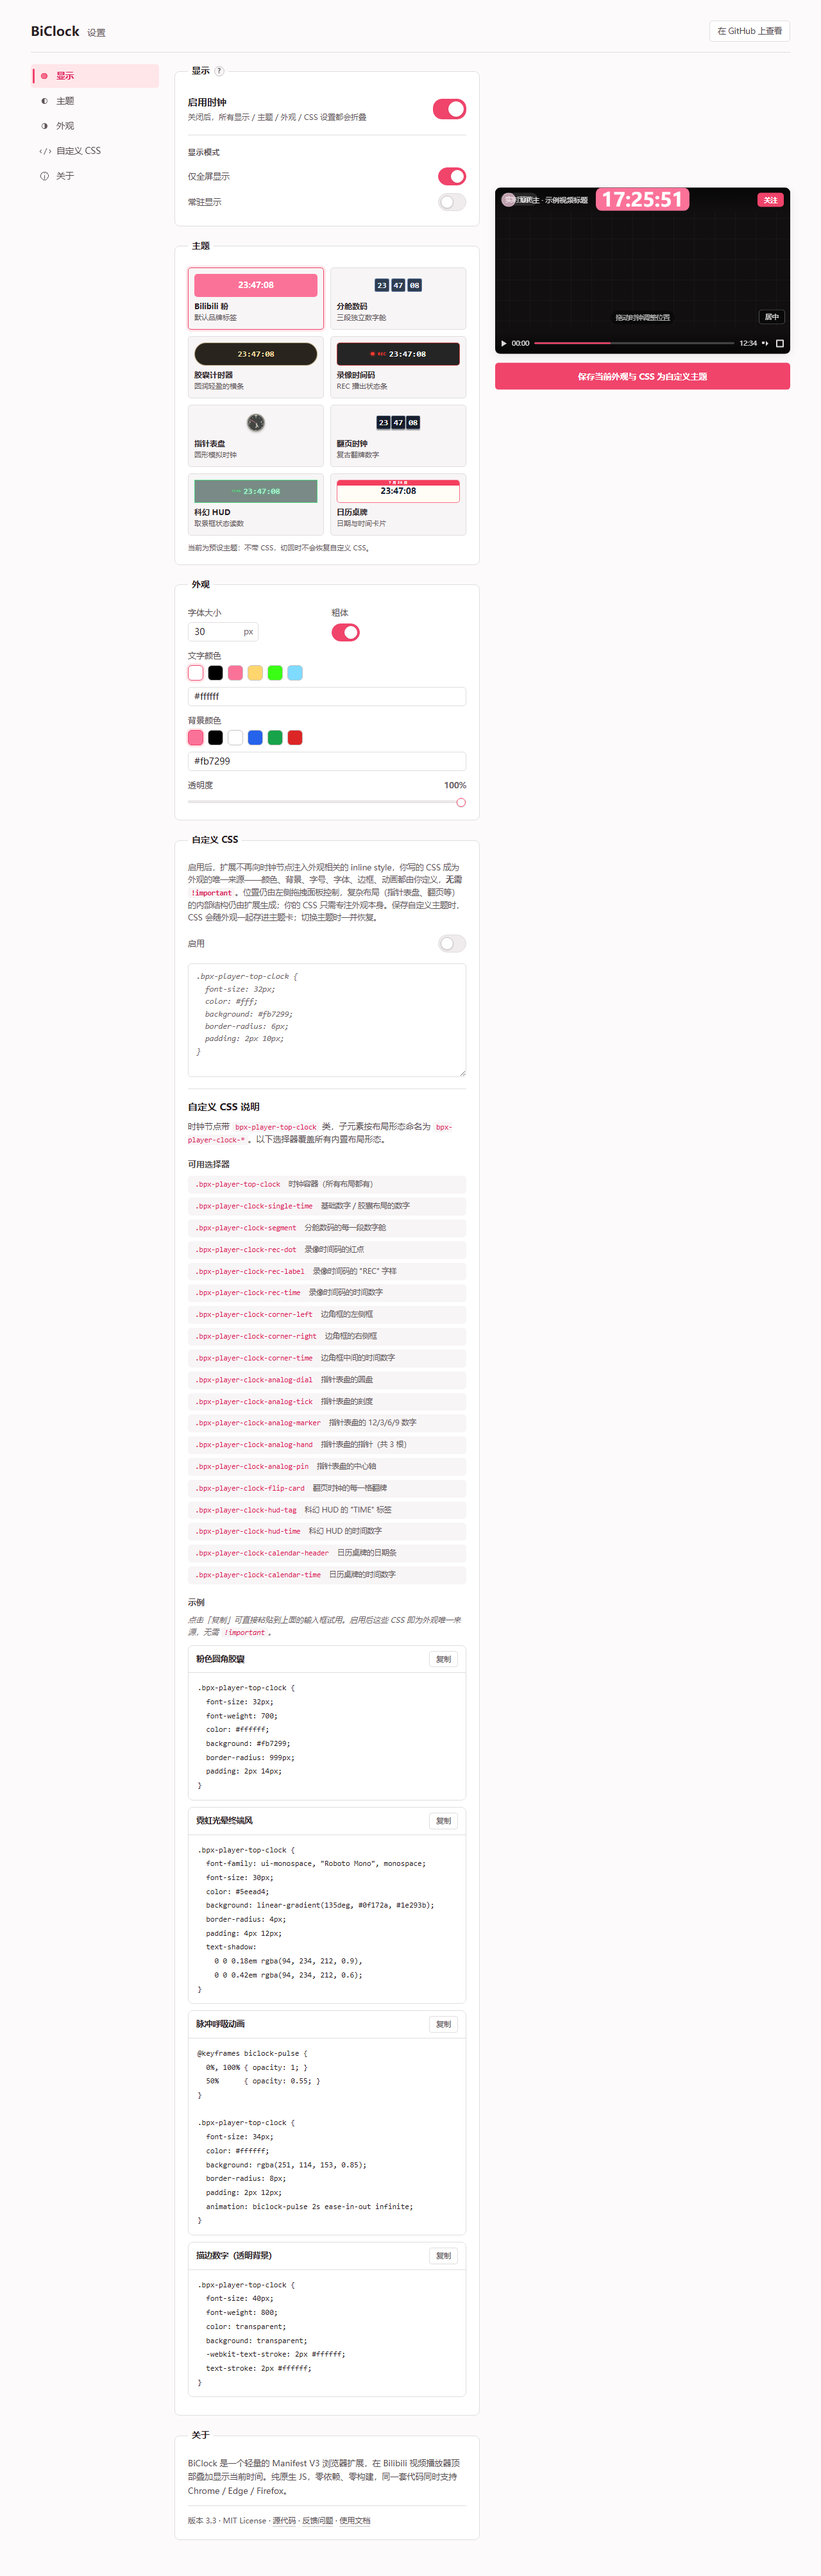
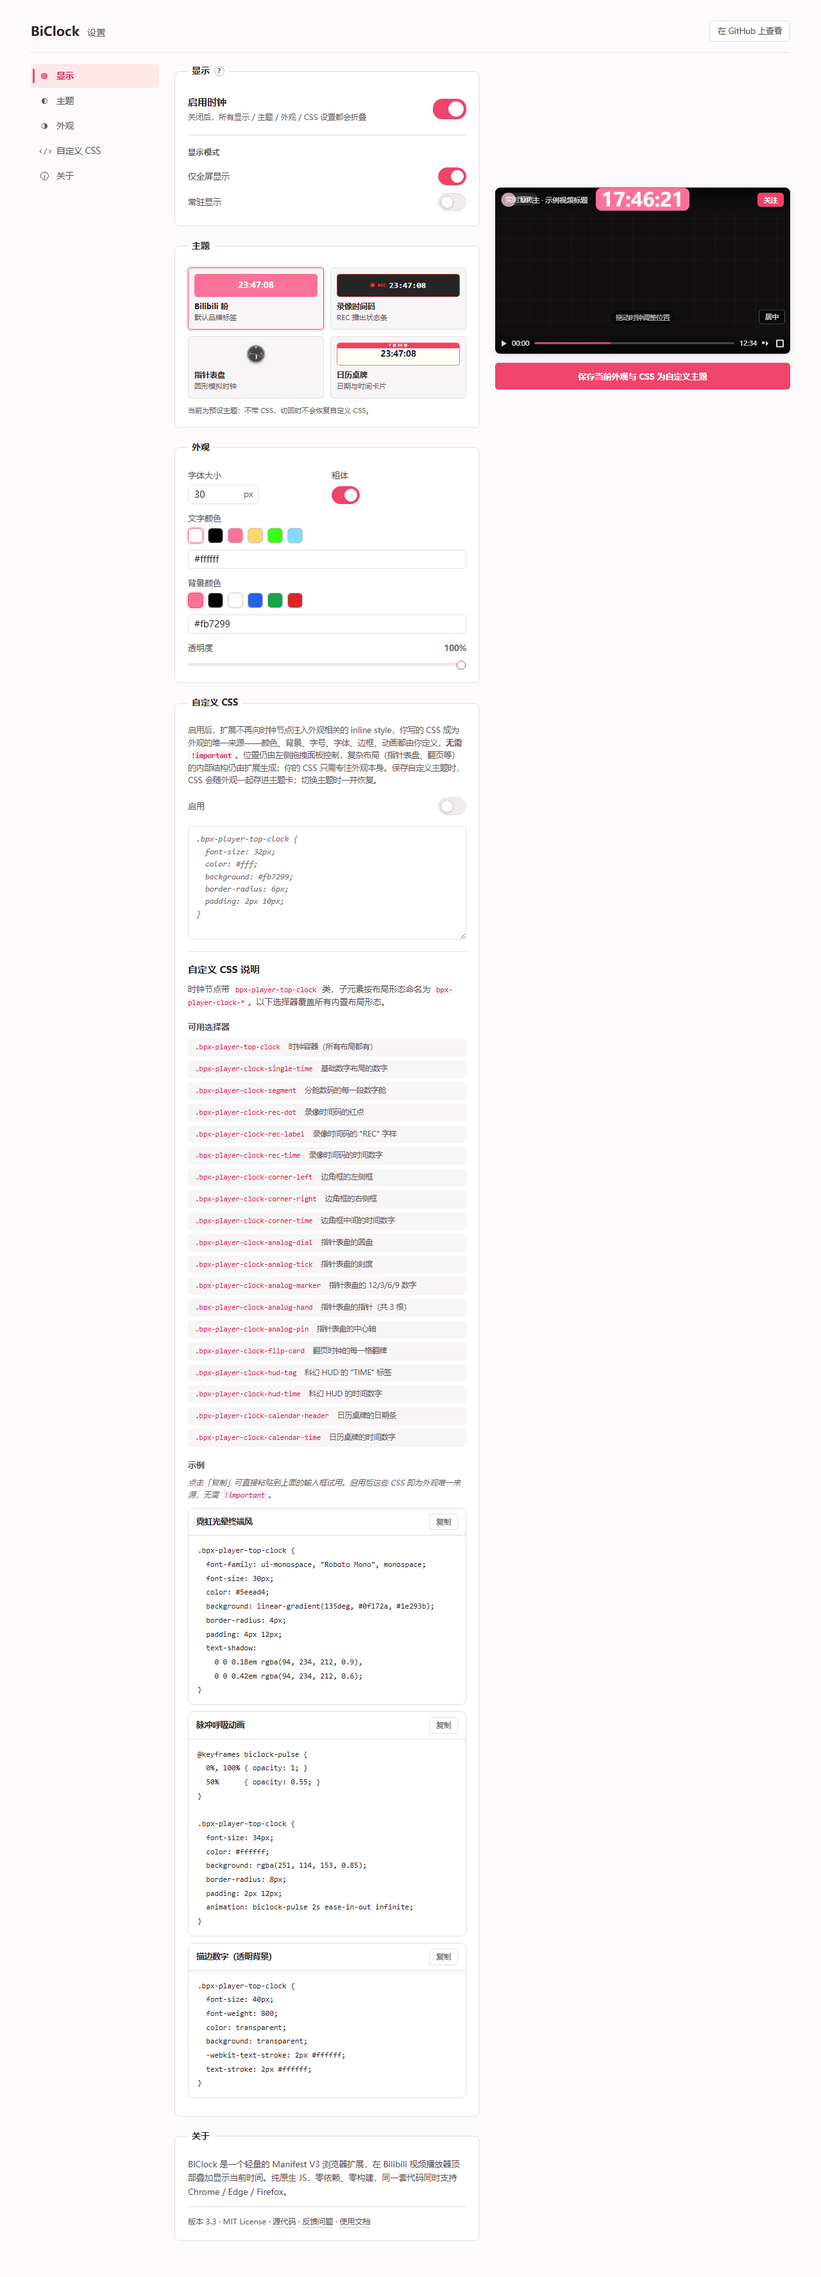
refactor(themes): 精简重复主题，删除 capsule/pods/hud/flip
- capsule 与 single 等价（仅多一个圆角），无特色
- pods / flip 同为分段数字，本质重复
- hud 与 recording 同为「标签 + 时间」状态条，本质重复

从 THEMES 删除这四张主题卡，并加入 REMOVED_THEME_IDS
让已激活它们的用户加载旧存储时由 migrateRemovedTheme 平滑回退到默认。
renderClockLayout 分支 / LAYOUT_LABELS / 选择器表沿用 corner 惯例保留，
旧的派生 customThemes 仍能正确渲染并显示有意义副标题。

同步删除 options.html 「粉色圆角胶囊」CSS 示例卡片，
更新 .bpx-player-clock-single-time 选择器描述。
重新生成 popup/options 截图。

diff --git a/options.js b/options.js
@@ -22,20 +22,6 @@ var THEMES = [
         accentColor: '#fb7299', clockLayout: 'single'
     },
     {
-        id: 'pods', name: '分舱数码', note: '三段独立数字舱',
-        fontSize: 30, color: '#eff6ff', backgroundColor: '#26354a', bgOpacity: 96, bold: true,
-        fontFamily: 'ui-monospace, "Roboto Mono", SFMono-Regular, Menlo, Consolas, monospace',
-        textShadow: 'none', borderColor: '#8db4e8', borderOpacity: 58, borderWidth: 1,
-        accentColor: '#8db4e8', clockLayout: 'segments'
-    },
-    {
-        id: 'capsule', name: '胶囊计时器', note: '圆润轻盈的横条',
-        fontSize: 30, color: '#ffe2a8', backgroundColor: '#17120b', bgOpacity: 92, bold: true,
-        fontFamily: 'ui-monospace, "Roboto Mono", SFMono-Regular, Menlo, Consolas, monospace',
-        textShadow: '0 1px 2px rgba(0, 0, 0, 0.45)', borderColor: '#ffe2a8', borderOpacity: 62, borderWidth: 1,
-        accentColor: '#ffe2a8', clockLayout: 'capsule'
-    },
-    {
         id: 'recording', name: '录像时间码', note: 'REC 播出状态条',
         fontSize: 29, color: '#ffffff', backgroundColor: '#171717', bgOpacity: 94, bold: true,
         fontFamily: 'ui-monospace, "Roboto Mono", SFMono-Regular, Menlo, Consolas, monospace',
@@ -48,20 +34,6 @@ var THEMES = [
         fontFamily: 'ui-monospace, "Roboto Mono", SFMono-Regular, Menlo, Consolas, monospace',
         textShadow: 'none', borderColor: '#aaa69c', borderOpacity: 82, borderWidth: 2,
         accentColor: '#a87078', clockLayout: 'analog'
-    },
-    {
-        id: 'flip', name: '翻页时钟', note: '复古翻牌数字',
-        fontSize: 31, color: '#f8fafc', backgroundColor: '#111827', bgOpacity: 97, bold: true,
-        fontFamily: 'ui-monospace, "Roboto Mono", SFMono-Regular, Menlo, Consolas, monospace',
-        textShadow: '0 1px 1px rgba(0, 0, 0, 0.8)', borderColor: '#475569', borderOpacity: 100, borderWidth: 1,
-        accentColor: '#94a3b8', clockLayout: 'flip'
-    },
-    {
-        id: 'hud', name: '科幻 HUD', note: '取景框状态读数',
-        fontSize: 28, color: '#a7f3d0', backgroundColor: '#06281f', bgOpacity: 52, bold: true,
-        fontFamily: 'ui-monospace, "Roboto Mono", SFMono-Regular, Menlo, Consolas, monospace',
-        textShadow: '0 0 0.42em rgba(74, 222, 128, 0.7)', borderColor: '#4ade80', borderOpacity: 88, borderWidth: 1,
-        accentColor: '#4ade80', clockLayout: 'hud'
     },
     {
         id: 'calendar', name: '日历桌牌', note: '日期与时间卡片',

diff --git a/options.html b/options.html
@@ -192,7 +192,7 @@
                 <h3>可用选择器</h3>
                 <div class="docs-selector-grid">
                     <div class="docs-selector-row"><code>.bpx-player-top-clock</code><span>时钟容器（所有布局都有）</span></div>
-                    <div class="docs-selector-row"><code>.bpx-player-clock-single-time</code><span>基础数字 / 胶囊布局的数字</span></div>
+                    <div class="docs-selector-row"><code>.bpx-player-clock-single-time</code><span>基础数字布局的数字</span></div>
                     <div class="docs-selector-row"><code>.bpx-player-clock-segment</code><span>分舱数码的每一段数字舱</span></div>
                     <div class="docs-selector-row"><code>.bpx-player-clock-rec-dot</code><span>录像时间码的红点</span></div>
                     <div class="docs-selector-row"><code>.bpx-player-clock-rec-label</code><span>录像时间码的 "REC" 字样</span></div>
@@ -214,21 +214,6 @@
 
                 <h3>示例</h3>
                 <p class="docs-hint">点击「复制」可直接粘贴到上面的输入框试用。启用后这些 CSS 即为外观唯一来源，无需 <code>!important</code>。</p>
-
-                <div class="docs-card">
-                    <div class="docs-card-head">
-                        <span class="docs-card-title">粉色圆角胶囊</span>
-                        <button type="button" class="copy-btn" data-copy="capsule">复制</button>
-                    </div>
-                    <pre class="docs-code" id="code-capsule"><code>.bpx-player-top-clock {
-  font-size: 32px;
-  font-weight: 700;
-  color: #ffffff;
-  background: #fb7299;
-  border-radius: 999px;
-  padding: 2px 14px;
-}</code></pre>
-                </div>
 
                 <div class="docs-card">
                     <div class="docs-card-head">

diff --git a/shared.js b/shared.js
@@ -59,7 +59,9 @@ var DEFAULTS = {
 };
 
 // 已下线、不再有主题卡的旧主题 id。打开旧版本遗留的存储时需要回退到默认。
-var REMOVED_THEME_IDS = ['minimal', 'glass', 'neon', 'retro', 'corner'];
+// capsule 与 single 等价（仅多一个圆角）、pods / flip 重复（同为分段数字）、
+// hud 与 recording 重复（同为「标签 + 时间」状态条），故一并精简。
+var REMOVED_THEME_IDS = ['minimal', 'glass', 'neon', 'retro', 'corner', 'capsule', 'pods', 'hud', 'flip'];
 
 // 主题能够覆盖的外观字段（位置/显示开关等不归主题管）。
 var THEME_STYLE_KEYS = [
